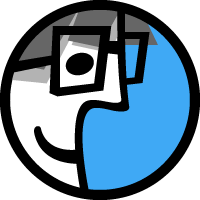
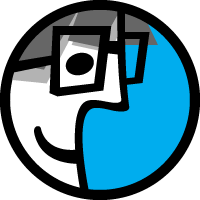
Saving.
Saving all changes so far.

Changed region(s): [[0.39, 0.12, 0.96, 0.96], [0.6, 0.21, 0.69, 0.39]]

diff --git a/src/app/siteData.service.ts b/src/app/siteData.service.ts
@@ -467,21 +467,33 @@ export class SiteDataService {
 		this.development = [
 			{
 				title:'iOS', 
-				descriptions:[],
+				descriptions:[`Ever since the iPhone came out I wanted 
+								to become an iOS developer, I thought that 
+								I was really cool work on those devices.`],
 				image:'../assets/images/appleInc.png',
 				listTitle:'',
 				list:[]
 			},
 			{
 				title:'Unity 3D', 
-				descriptions:[],
+				descriptions:[`One of my passions is game 
+								development and I use Unity 3D for this 
+								purpose. While I was working on Fair Play 
+								Labs I got to learn the tool very well, 
+								in fact I am working on a game right now 
+								and I am hoping to release it soon.`],
 				image:'../assets/images/unity3d.png',
 				listTitle:'',
 				list:[]
 			},
 			{
 				title:'Web', 
-				descriptions:[],
+				descriptions:[`I know the way around html, css and 
+							javascript and I'm confident that about my 
+							web development skills, perhaps this site 
+							is a showcase about that.`,
+							`I have done other projects for clients but 
+							thoose sites are not online anymore, sorry...`],
 				image:'../assets/images/web.png',
 				listTitle:'',
 				list:[]

diff --git a/src/app/estebanPadilla/estebanPadilla.component.css b/src/app/estebanPadilla/estebanPadilla.component.css
@@ -41,7 +41,7 @@ a:hover {
 }
 
 .bgColor {
-	background: #3fa9f5;
+	background-color: #00adef;
 	padding-top: 30px;
 	padding-right: 30px;
 	padding-left: 30px;
@@ -64,3 +64,40 @@ a:hover {
 }
 
 
+.lastUpdateBox{
+	background-color: white;
+  	position:absolute;
+  	float: right;
+  	top: 20px;
+  	margin-left: -30px;
+  	width: 100px;
+  	height: 40px;
+	border-color: transparent #00adef transparent transparent;
+  	border-style: solid;
+  	border-width: 20px;
+}
+
+.lastUpdateBox_h1 {
+	color: #404040;
+	font-size: 12px;
+	font-weight: 900;
+    font-family: 'Lato', sans-serif;
+    height:50%;
+    margin-top: -16px;
+    margin-bottom: 0px;
+    margin-left: -15px;
+    text-align: center;
+
+}
+
+
+.lastUpdateBox_p {
+	color: #404040;
+	font-size: 10px;
+	font-weight: 300;
+    font-family: 'Lato', sans-serif;
+    height: 50%;
+    text-align: center;
+    margin-left: -15px;
+    margin-top: 15px;
+}

diff --git a/src/app/estebanPadilla/estebanPadilla.component.ts b/src/app/estebanPadilla/estebanPadilla.component.ts
@@ -11,6 +11,8 @@ import { SiteDataService } from '../siteData.service';
 export class EstebanPadillaComponent {
 
 	user:User;// = new User();
+	updateTitle:string;
+	lastUpdate:string;
 
 	constructor(private siteDataService:SiteDataService){
 		// this.user.name = 'Esteban Padilla';
@@ -23,6 +25,8 @@ export class EstebanPadillaComponent {
 
 	ngOnInit() {
 		this.user = this.siteDataService.user;
+		this.updateTitle = 'Updated';
+		this.lastUpdate = 'Oct 2017';
 	}
 
 

diff --git a/src/app/estebanPadilla/estebanPadilla.component.html b/src/app/estebanPadilla/estebanPadilla.component.html
@@ -1,6 +1,12 @@
 
 <div class="bgColor">
-	<br>
+<br>
+<br>
+<br>
+	<div class="lastUpdateBox">
+		<p class="lastUpdateBox_h1">{{ updateTitle }}</p>
+		<p class="lastUpdateBox_p">{{ lastUpdate }}</p>
+	</div>
 	<div class="row textHorizontalSpace">
 		<div class="col-xs-12 col-sm-4 col-md-3 col-lg-3 displayOptions">
 	 		<div class="text-center"><img [src]="user.avatar"></div>

diff --git a/src/app/believe/believe.component.html b/src/app/believe/believe.component.html
@@ -4,7 +4,7 @@
 			<p class="p1">{{ believe1 }}</p>
 		</div>
 		<div class="col-xs-12 col-sm-12 col-md-6 col-lg-6 bgColor2">
-			<p class="p2">{{ believe2 }}</p>
+			<p class="p2">" {{ believe2 }} "</p>
 		</div>
 	</div>
 

diff --git a/src/app/skillsToolsDevelopment/skillsToolsDevelopment.component.html b/src/app/skillsToolsDevelopment/skillsToolsDevelopment.component.html
@@ -21,6 +21,7 @@
 			<p class="text-left">{{ description }}</p>
 		</div>
 	</div>
+	<br>
 	<div class="row textHorizontalSpace">
 		<div class="col-sm-5 col-md-5 col-lg-5">
 			<h3 class="text-left">Skills</h3>

diff --git a/src/app/contact/contact.component.css b/src/app/contact/contact.component.css
@@ -28,7 +28,7 @@ p {
 }
 
 .bgColor2 {
-	background-color: #7c51a1;
+	
 	background: repeating-linear-gradient(
 	  135deg,
 	  #815da8,
